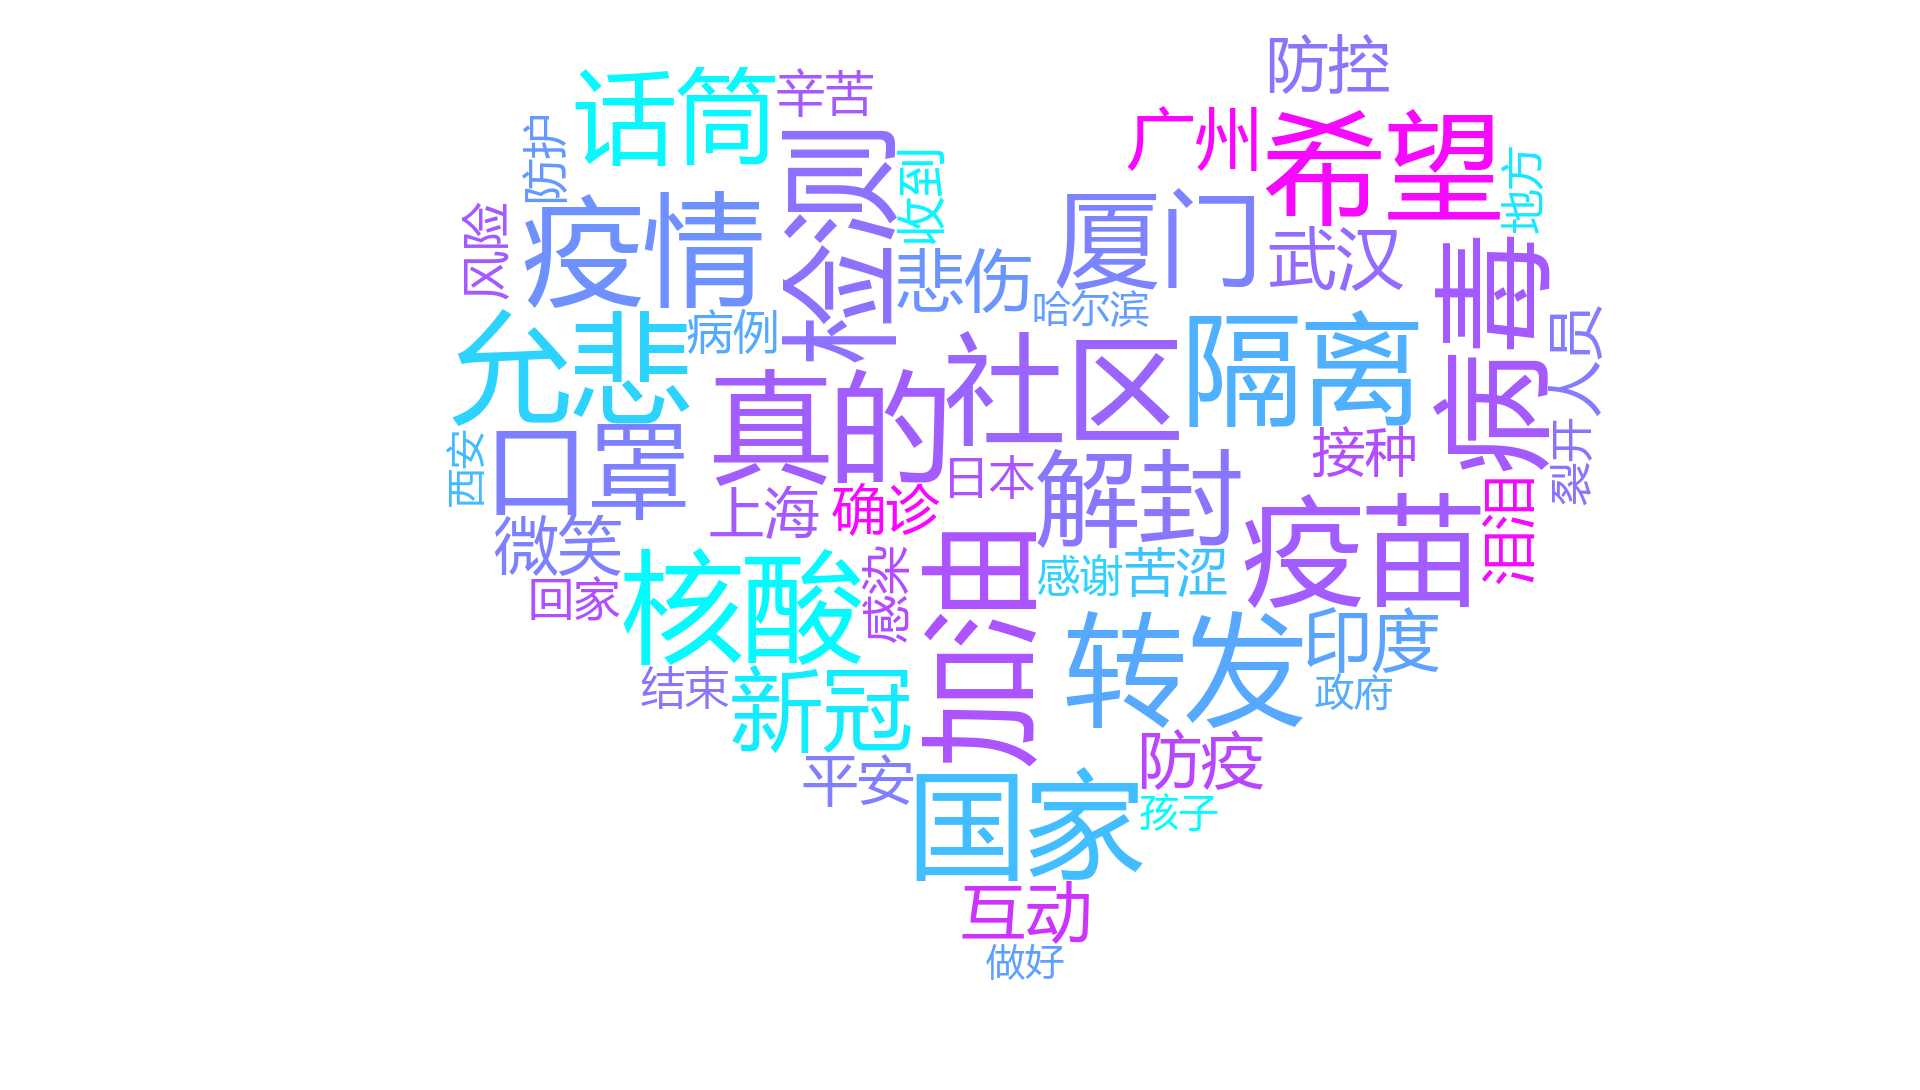
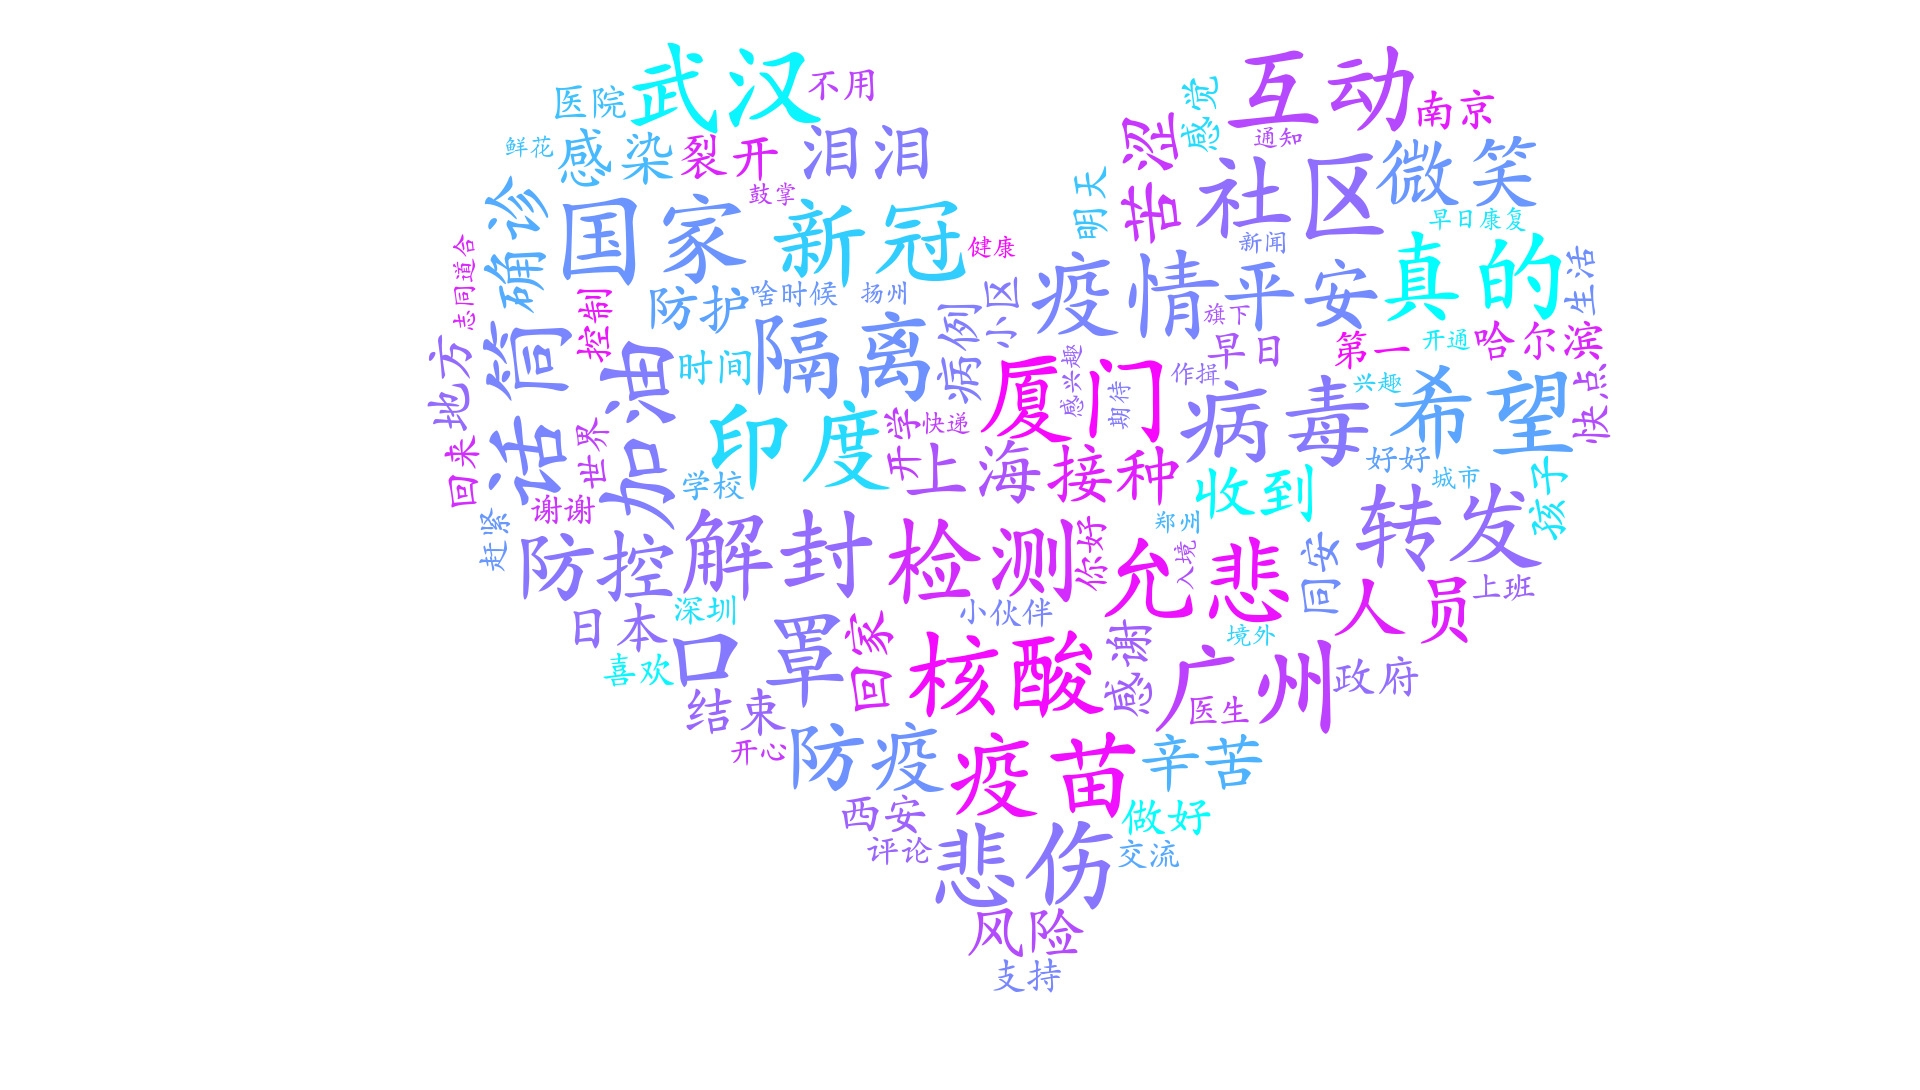
style：修改了一些注释

Changed region(s): [[0.2188, 0.0312, 0.8438, 0.9046]]

diff --git a/breaks.py b/breaks.py
@@ -7,7 +7,7 @@ import wordcloud
 from snownlp import SnowNLP
 from snownlp import sentiment
 
-filename = "2020/2020_phase1"  # 评论文件名，应放在resource目录下
+filename = "2022/2022_phase3"  # 评论文件名，应放在resource目录下
 filedir = f"resource/{filename}.csv"  # 原文档路径
 breakdir = f"output/{filename}_break.csv"  # 分词文件保存路径
 wordclouddir = f"output/{filename}_could.png"  # 词云图片保存路径
@@ -27,7 +27,7 @@ def processing(text):
     text = re.sub("【.+?】", "", text)  # 去除 【xx】 (里面的内容通常都不是用户自己写的)
     text = re.sub(".*?:", "", text)  # 去除微博用户的名字
     text = re.sub("#.*#", "", text)  # 去除话题引用
-    text = re.sub("\n", "", text)
+    text = re.sub("\n", "", text)#去掉换行符
     return text
 
 
@@ -108,6 +108,7 @@ def creatWordCloud(words):
                             background_color='white', colormap='cool', mask=mask)
     w.generate(words)  # 为词云注入词组
     w.to_file(wordclouddir)
+    print("词云绘制完成")
 
 #使用自有语料训练情感分析模型
 def trainNewMoudle():
@@ -120,5 +121,6 @@ if __name__ == '__main__':
     print("分词成功！！！，下面进行词频统计")
     allwords = getallwords()
     topcomment = couter(allwords)  # 统计出高频词汇
-    #creatWordCloud(topcomment)#将高频词绘制成词云
-    # analysis(allwords)  # 对分词结果进行情感分析打分
+    creatWordCloud(topcomment)#将高频词绘制成词云
+    #trainNewMoudle() #使用自带的新语料训练模型
+    analysis(allwords)  # 对分词结果进行情感分析打分

diff --git a/main.py b/main.py
@@ -55,7 +55,6 @@ def getWeiboCommentinfo(url):
         'upgrade-insecure-requests': '1',
         'user-agent': 'Mozilla/5.0 (Windows NT 10.0; Win64; x64) AppleWebKit/537.36 (KHTML, like Gecko) Chrome/94.0.4606.81 Safari/537.36',
     }
-
     response = requests.get(url, headers=headers)
     html = BeautifulSoup(response.content, 'lxml')
     conetnt = html.find_all('div', class_="card-wrap")  # 这里CALSS 要加下划线
@@ -150,10 +149,11 @@ def htmlComment(data):
 def runx():
     # keytext = input('请输入关键词：')
     keytext = '新冠疫情'
-    for day in range(1, 29):
+    day=[1,31,28,31,30,31,30,31,31,30,31,30,31]
+    for day in range(1, day[int(mouth)]):
         for x in range(1, 3):  # 每天爬取多少页页的话题评论
-            url = f"https://s.weibo.com/weibo?q={keytext}&timescope=custom:{int(year) - 1}-12-31-0:{year}-{mouth}-{day}&page={x}"
-
+            url = f"https://s.weibo.com/weibo?q={keytext}&xsort=hot&timescope=custom:{int(year) - 1}" \
+                  f"-12-31-0:{year}-{mouth}-{day}&page={x}"
             t = random.randint(2, 5)
             print("当前爬取" + str(year) + "年第" + str(mouth) + "月第" + str(day) + "天第" + str(x) + "页评论数据")
             print(f"{t}秒后开始抓取")
